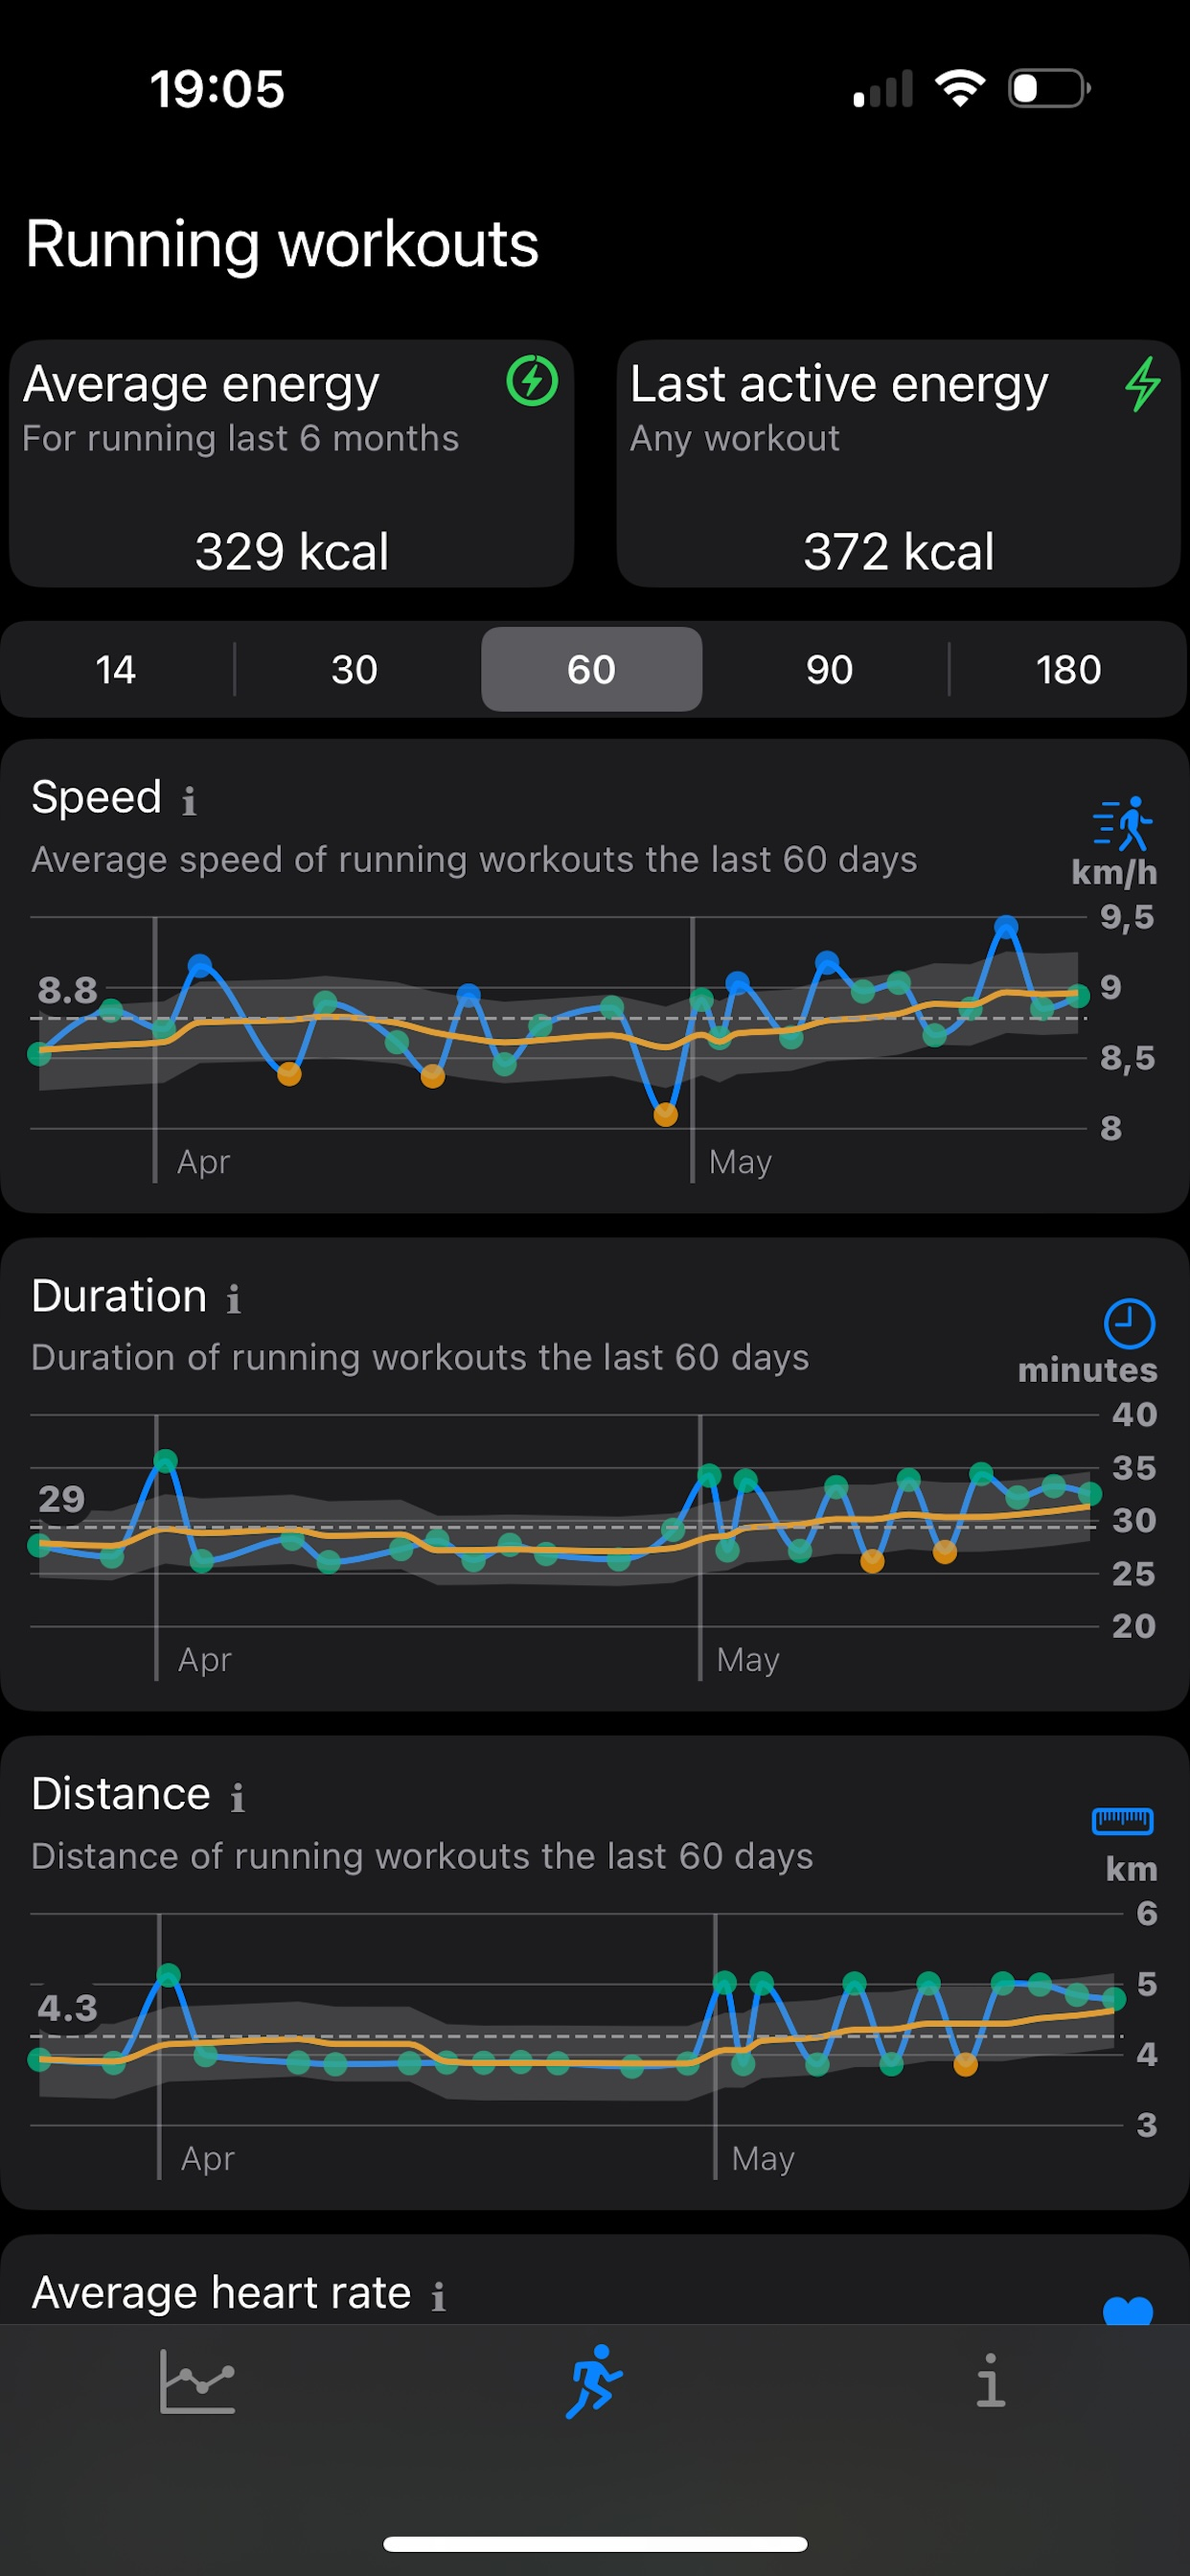
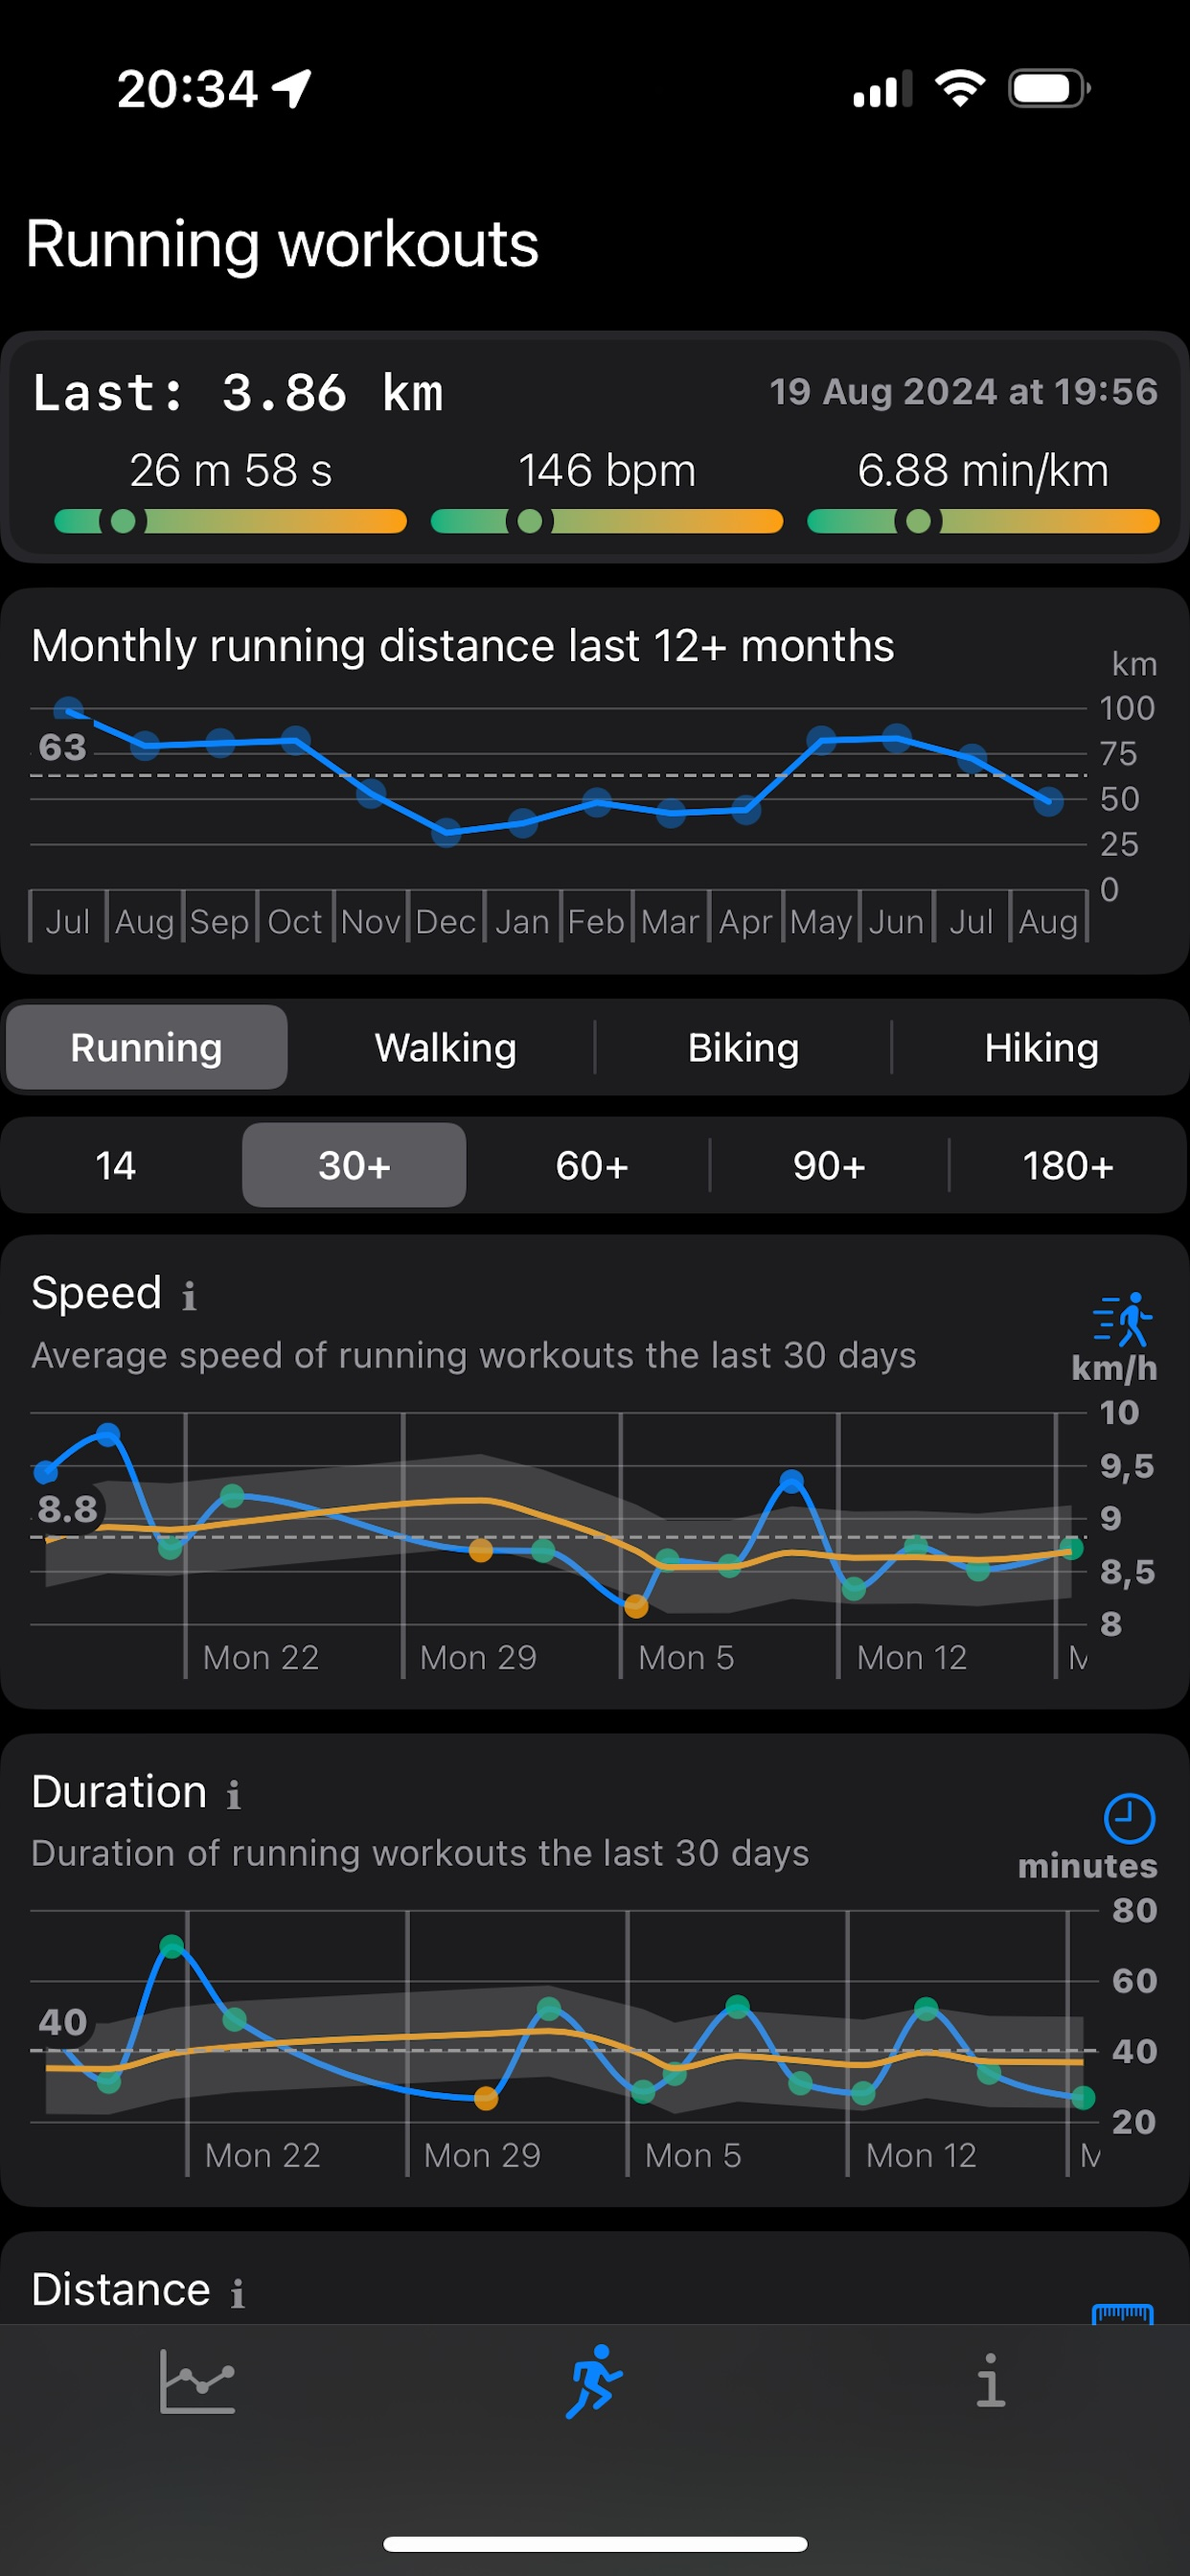
Version 1.6 with workout lists and more workout types

diff --git a/theaveragejoggercompanion.html b/theaveragejoggercompanion.html
@@ -75,9 +75,16 @@ a{
     <!--BOX MEDIA LINKS-->
     <div id="" class="menuBox">
         <h1>The 14 day average</h1>
-The app will search for everyday health metric data and running workouts (indoor and outdoor) within the last 180 days. For each workout or health metric the app will calculate an average value. The average is calculated over 14 days. So for each workout point, or health metric data, there will be a orange point that indicates the average value of the data the previous 14 days. If there are no workouts in the 14 day period preceeding any point, average can not be calculated.
+The app will search for everyday health metric data and running workouts (indoor and outdoor), biking, hiking and walking within the last 180 days. 
+For each workout or health metric the app will calculate an average value. 
+The average is calculated over 14 days. So for each workout point, or health metric data, there will be a orange point that indicates the average value of the data the previous 14 days. 
+If there are no workouts in the 14 day period preceeding any point, average can not be calculated.
 <br><br>
-The idea by this 14 day average is to show how your most recent workouts are improving compared to your performance the last month. This way your performance will be compared to your own abilities and fitness level
+The idea by this 14 day average is to show how your most recent workouts are improving compared to your performance the last month. This way your performance will be compared to your own abilities and fitness level.
+<br><br>
+Each workout will be classified according the similar distances, within pluss minus 300 m. Then each workout within the selected period will be listed and there will be duration, 
+average heart rate and pace gauges with maximume and minimum levels set to what is found within each class if distances. This way you can compare your last run with similar sessions of the same distance. 
+
     <div class="menuBox" style="font-family: monospace;font-weight:bold;">
     </div>
     <div id="" class="menuBox">
